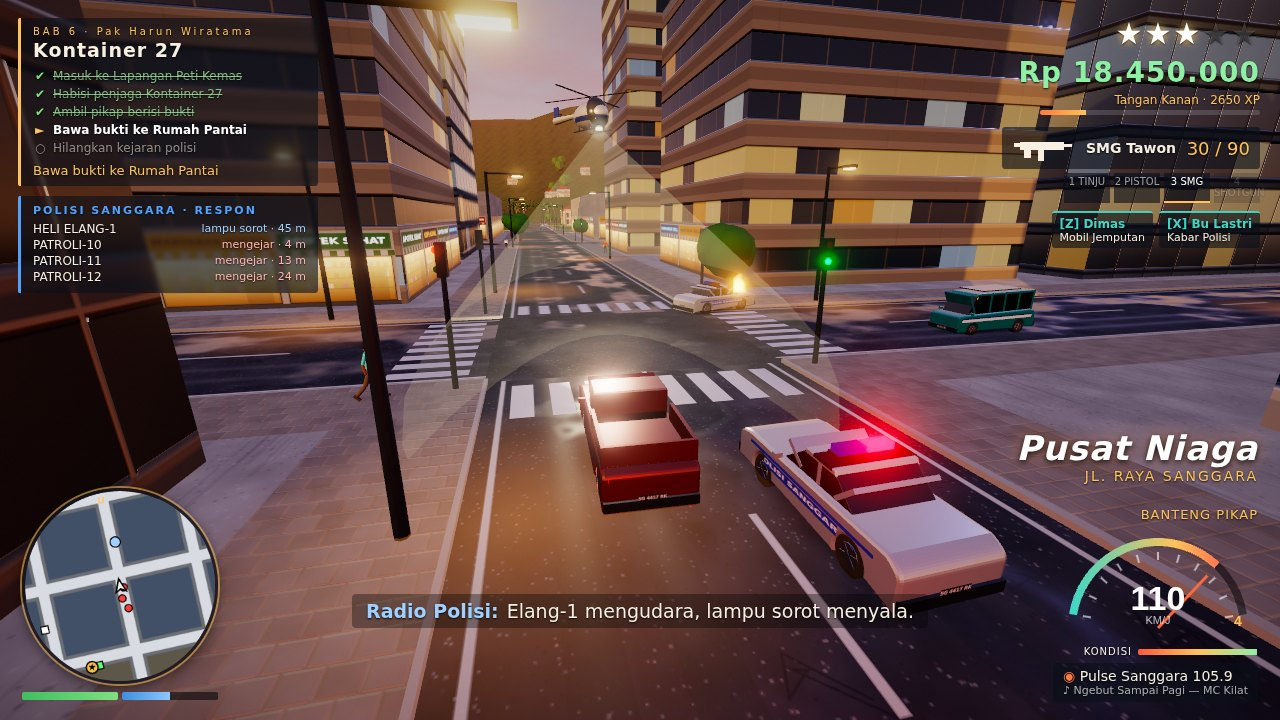
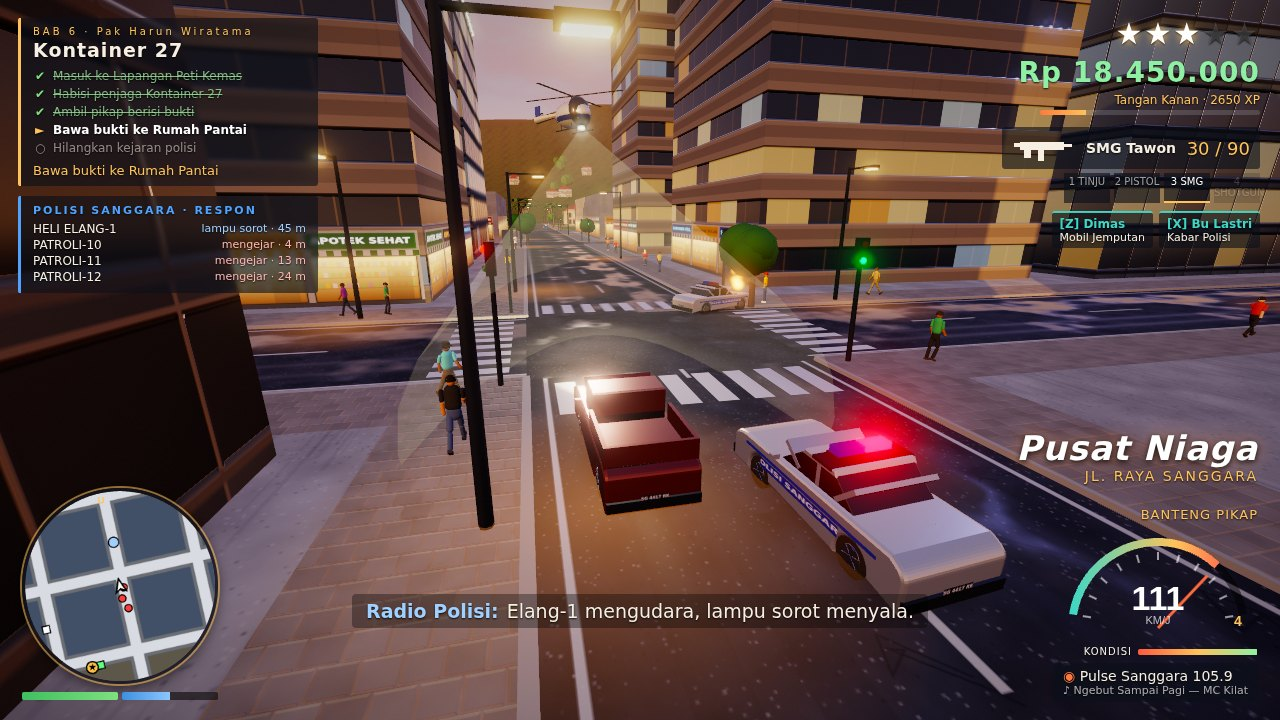
Busier sidewalks in the cover chase, fuller feature line on the title

diff --git a/game/src/ui/menu-screens.js b/game/src/ui/menu-screens.js
@@ -68,7 +68,7 @@ export class MenuScreens {
         return `<li class="${done ? 'done' : next ? 'next' : ''}"><b>${m.chapter}</b>${m.title}${done ? ' ✔' : next ? ' ◄' : ''}</li>`;
       }).join('')}</ul>
       <div class="cast">${['dimas', 'lastri', 'harun', 'rusdi'].map((k) => `<div><b>${CAST[k].full}</b>${CAST[k].role}</div>`).join('')}</div>
-      <div style="margin-top:8px;font-size:12px;opacity:.75">${MISSIONS.length} misi cerita · balap liar · antar martabak · 4 stasiun radio · 6 distrik</div>`;
+      <div style="margin-top:8px;font-size:12px;opacity:.75">${MISSIONS.length} misi cerita · balap liar · antar martabak · narik angkot · 12 kerang emas · 9 kendaraan · 4 stasiun radio · 6 distrik</div>`;
   }
 
   hideTitle() { $('title-screen').classList.add('hidden'); this.current = null; }

diff --git a/game/src/debug/screenshot-director.js b/game/src/debug/screenshot-director.js
@@ -78,6 +78,10 @@ const SCENES = {
       if (!pv) return;
       pv.pos.set(v.pos.x + dx, 0, v.pos.z + dz); pv.heading = v.heading + rot; pv.syncMesh();
     });
+    // Crowd the sidewalks around the chase: people stop, stare and scatter.
+    s.peds.target = 60;
+    for (let k = 0; k < 400 && s.peds.list.length < 60; k++) s.peds.spawn(v.pos.x, v.pos.z - 20, 8, 55);
+    for (let i = 0; i < 20; i++) s.peds.update(DT, s.player, s.vehicles);
     // A fourth patrol car that lost the chase burns against a lamp post.
     const wreck = s.vehicles.spawn('patroli', v.pos.x + 8.6, v.pos.z - 17, Math.PI * 0.62);
     wreck.ai = { kind: 'parked-police' }; wreck.sirenOn = true; wreck.health = wreck.spec.health * 0.12;

diff --git a/game/src/characters/pedestrian-system.js b/game/src/characters/pedestrian-system.js
@@ -26,7 +26,7 @@ export class PedestrianSystem {
     this.scene = scene;
     this.world = world;
     this.list = [];
-    this.target = 34;
+    this.target = 40;
     void INSET;
   }
 
